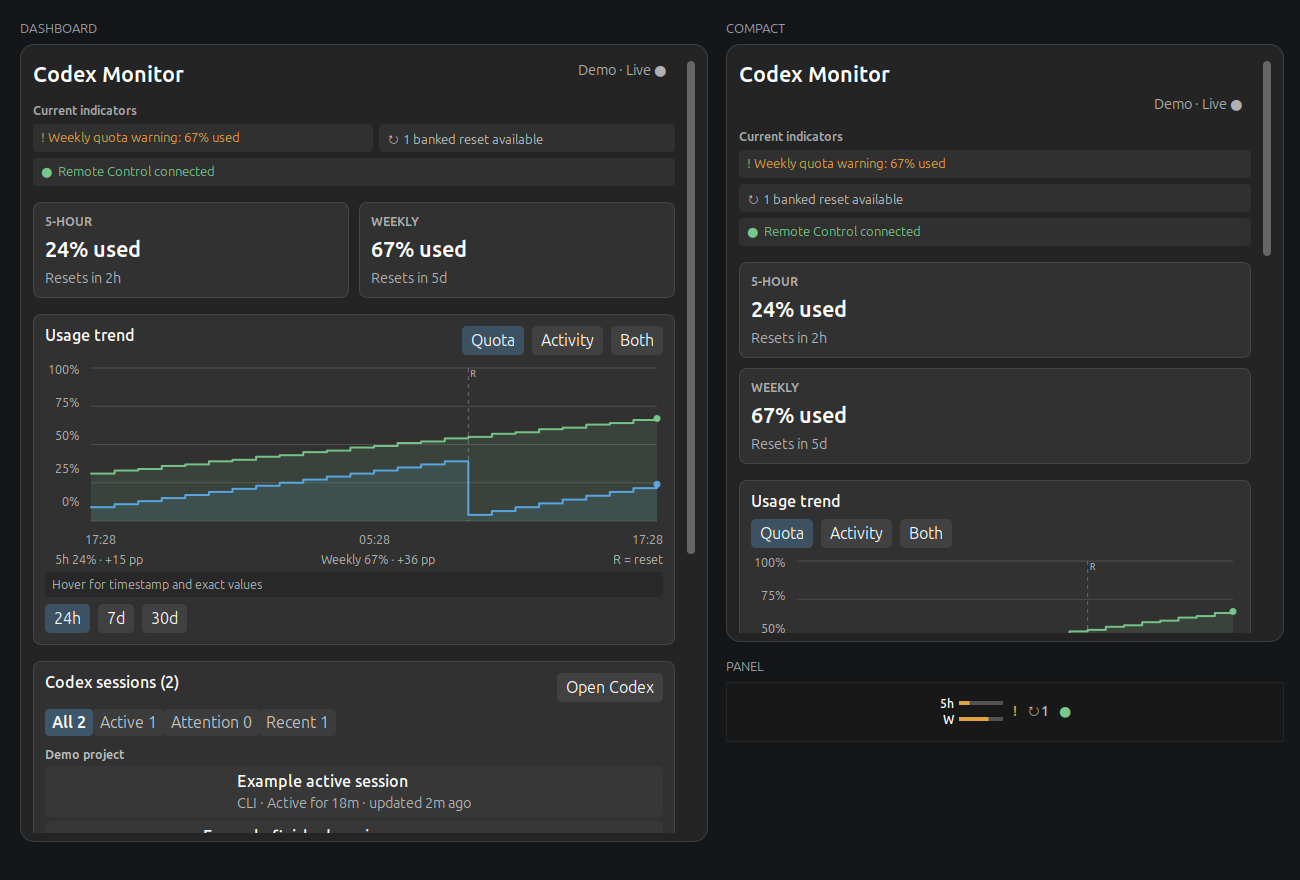
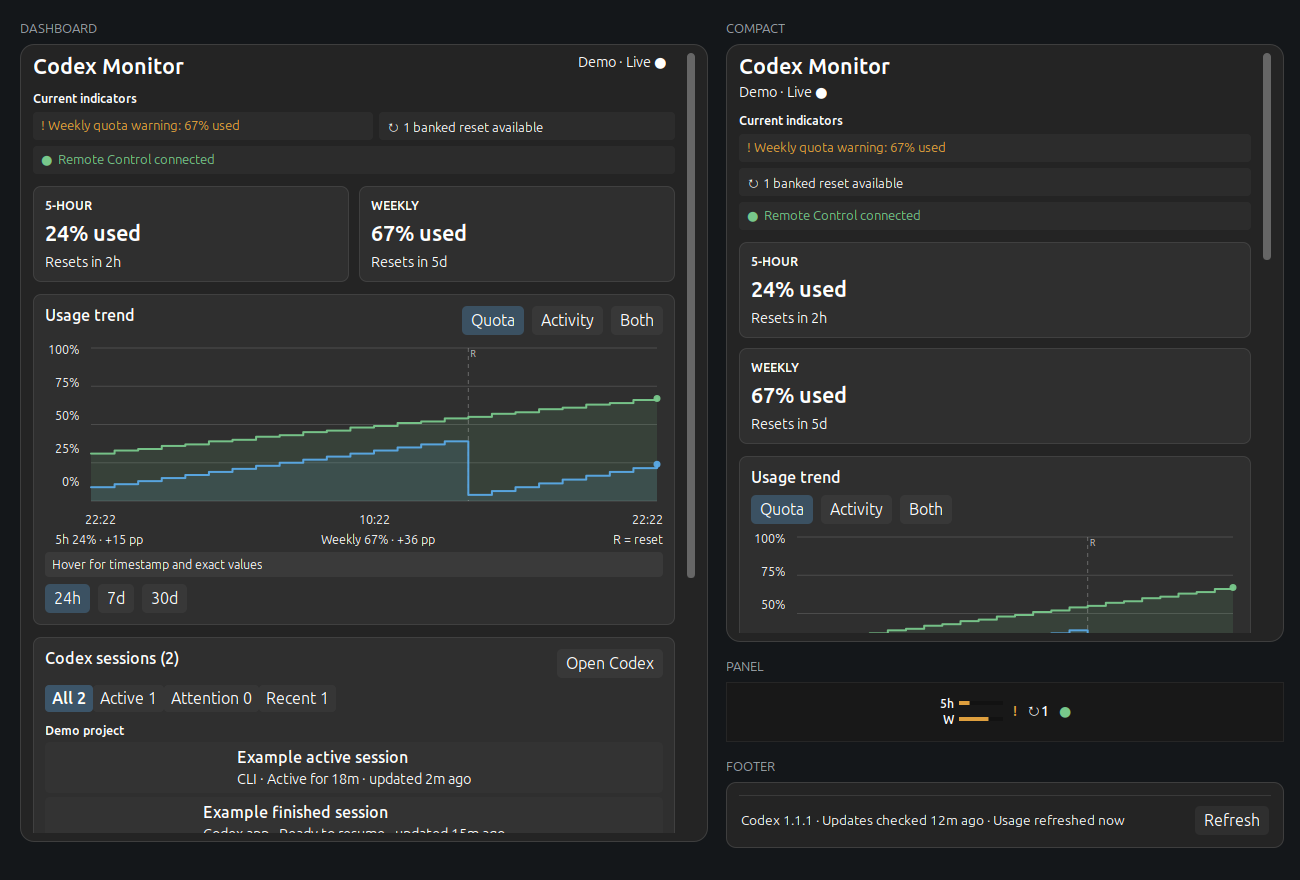
codex-monitor@breixopd: update audited 1.2.3 build

diff --git a/codex-monitor@breixopd/files/codex-monitor@breixopd/ui.js b/codex-monitor@breixopd/files/codex-monitor@breixopd/ui.js
@@ -133,6 +133,7 @@ var Dashboard = class Dashboard {
     this._sessionFilter = 'all';
     this._sessionFilterButtons = {};
     this._updateState = null;
+    this._footerUsageMessage = null;
     this._settings = {};
     this._compact = false;
     this._indicators = [];
@@ -416,32 +417,37 @@ var Dashboard = class Dashboard {
   }
 
   _buildFooter() {
-    this._versionRow = new St.BoxLayout({
-      style_class: 'codex-monitor-version-row',
-    });
-    this._versionLabel = new St.Label({
-      text: '',
-      style_class: 'codex-monitor-secondary',
+    this._footer = new St.BoxLayout({ style_class: 'codex-monitor-footer' });
+    this._footerSummary = new St.Label({
+      text: this._('No data yet'),
+      style_class: 'codex-monitor-footer-summary',
       x_expand: true,
+      y_align: Clutter.ActorAlign.CENTER,
     });
-    _enableWrapping(this._versionLabel);
+    _enableWrapping(this._footerSummary);
+    this._footerActions = new St.BoxLayout({
+      style_class: 'codex-monitor-footer-actions',
+      y_align: Clutter.ActorAlign.CENTER,
+    });
     this._updateButton = _button(this._('Update Codex…'), this._callbacks.onUpdate);
     this._updateButton.visible = false;
-    this._versionRow.add_child(this._versionLabel);
-    this._versionRow.add_child(this._updateButton);
-    this._versionRow.visible = false;
-    this.actor.add_child(this._versionRow);
-
-    this._footer = new St.BoxLayout({ style_class: 'codex-monitor-footer' });
-    this._updated = new St.Label({
-      text: this._('No data yet'),
-      style_class: 'codex-monitor-secondary',
-      x_expand: true,
-    });
-    _enableWrapping(this._updated);
-    this._footer.add_child(this._updated);
-    this._footer.add_child(_button(this._('Refresh'), this._callbacks.onRefresh));
+    this._refreshButton = _button(this._('Refresh'), this._callbacks.onRefresh);
+    this._footerActions.add_child(this._updateButton);
+    this._footerActions.add_child(this._refreshButton);
+    this._footer.add_child(this._footerSummary);
+    this._footer.add_child(this._footerActions);
     this.actor.add_child(this._footer);
+  }
+
+  _renderFooter() {
+    const now = Math.floor(Date.now() / 1000);
+    this._footerSummary.set_text(this._model.dashboardFooterText(
+      this._updateState,
+      this._snapshot && this._snapshot.capturedAt,
+      this._footerUsageMessage,
+      now,
+      this._
+    ));
   }
 
   _layoutSessionFilters() {
@@ -478,8 +484,14 @@ var Dashboard = class Dashboard {
     this._remoteHeading.set_vertical(this._compact);
     this._remoteClientsHeadingRow.set_vertical(this._compact);
     this._remoteButtons.set_vertical(this._compact);
-    this._versionRow.set_vertical(this._compact);
     this._footer.set_vertical(this._compact);
+    this._footerActions.set_vertical(false);
+    this._updateButton.x_expand = this._compact;
+    this._refreshButton.x_expand = this._compact;
+    this._updateButton.set_x_align(this._compact
+      ? Clutter.ActorAlign.FILL : Clutter.ActorAlign.CENTER);
+    this._refreshButton.set_x_align(this._compact
+      ? Clutter.ActorAlign.FILL : Clutter.ActorAlign.CENTER);
     this._layoutSessionFilters();
     this.setIndicators(this._indicators);
     if (this._snapshot)
@@ -490,37 +502,18 @@ var Dashboard = class Dashboard {
   setUpdateState(value) {
     const state = this._model.normalizeUpdateState(value);
     this._updateState = state;
-    this._versionRow.visible = Boolean(state.installedVersion || state.message);
     this._updateButton.visible = state.updateAvailable;
     this._updateButton.set_label(this._('Update Codex…'));
     if (state.status === 'checking') {
-      this._versionLabel.set_text(state.installedVersion
-        ? _format(this._('Codex %s · Checking for updates…'), state.installedVersion)
-        : this._('Checking for Codex updates…'));
       this._updateButton.visible = false;
     } else if (state.status === 'updating') {
-      this._versionLabel.set_text(this._('Updating Codex…'));
       this._updateButton.visible = false;
     } else if (state.status === 'updated') {
-      this._versionLabel.set_text(
-        _format(this._('Updated to Codex %s. New Codex launches use this version.'),
-          state.installedVersion)
-      );
       this._updateButton.visible = false;
     } else if (state.status === 'failed') {
-      this._versionLabel.set_text(state.installedVersion
-        ? _format(this._('Automatic update failed; Codex %s is still installed. Use the official Codex installation instructions to update manually.'),
-          state.installedVersion)
-        : this._('Automatic Codex update failed. Use the official Codex installation instructions to update manually.'));
       this._updateButton.set_label(this._('Retry'));
-    } else if (state.updateAvailable) {
-      this._versionLabel.set_text(
-        _format(this._('Codex %s → %s'), state.installedVersion, state.latestVersion)
-      );
-    } else {
-      this._versionLabel.set_text(state.installedVersion
-        ? _format(this._('Codex %s'), state.installedVersion) : '');
     }
+    this._renderFooter();
   }
 
   showUpdateError() {
@@ -566,8 +559,8 @@ var Dashboard = class Dashboard {
     const plan = snapshot.planType || snapshot.account && snapshot.account.planType || this._('Unknown plan');
     this._status.set_text(_format(this._('%s · Live ●'), plan));
     this.setIndicators(panelState && panelState.indicators);
-    this._updated.set_text(_format(this._('Updated %s ago'),
-      this._model.formatDuration(now - snapshot.capturedAt, this._)));
+    this._footerUsageMessage = null;
+    this._renderFooter();
     if (snapshotChanged) {
       this._fiveHourCard.update(snapshot.windows.fiveHour, this._model, now);
       this._weeklyCard.update(snapshot.windows.weekly, this._model, now);
@@ -580,7 +573,8 @@ var Dashboard = class Dashboard {
 
   showError(message) {
     this._status.set_text(this._('Stale · retrying'));
-    this._updated.set_text(message || this._('Unable to refresh Codex'));
+    this._footerUsageMessage = message || this._('Unable to refresh Codex');
+    this._renderFooter();
   }
 
   setRemoteStatus(status) {
@@ -647,7 +641,8 @@ var Dashboard = class Dashboard {
   }
 
   showActionMessage(message) {
-    this._updated.set_text(message);
+    this._footerUsageMessage = message;
+    this._renderFooter();
   }
 
   _renderGraph() {

diff --git a/codex-monitor@breixopd/files/codex-monitor@breixopd/model.js b/codex-monitor@breixopd/files/codex-monitor@breixopd/model.js
@@ -651,7 +651,7 @@ function normalizeUpdateState(value) {
   const installed = _semanticVersion(raw.installedVersion);
   const latest = _semanticVersion(raw.latestVersion);
   const statuses = new Set(['idle', 'checking', 'updating', 'updated', 'failed']);
-  const checkedAt = Number(raw.checkedAt);
+  const checkedAt = raw.checkedAt == null ? Number.NaN : Number(raw.checkedAt);
   return {
     installedVersion: installed ? installed.display : null,
     latestVersion: latest ? latest.display : null,
@@ -662,6 +662,61 @@ function normalizeUpdateState(value) {
     status: statuses.has(raw.status) ? raw.status : 'idle',
     message: null,
   };
+}
+
+function dashboardFooterText(updateState, capturedAt, usageMessage, now,
+  translate = text => text) {
+  const _ = translate;
+  const state = normalizeUpdateState(updateState);
+  const current = Number.isFinite(Number(now)) ? Math.floor(Number(now)) : 0;
+  let updateText = '';
+  if (state.status === 'checking') {
+    updateText = state.installedVersion
+      ? _format(_('Codex %s · Checking for updates…'), state.installedVersion)
+      : _('Checking for Codex updates…');
+  } else if (state.status === 'updating') {
+    updateText = _('Updating Codex…');
+  } else if (state.status === 'updated') {
+    updateText = _format(
+      _('Updated to Codex %s. New Codex launches use this version.'),
+      state.installedVersion
+    );
+  } else if (state.status === 'failed') {
+    updateText = state.installedVersion
+      ? _format(_('Automatic update failed; Codex %s is still installed. Use the official Codex installation instructions to update manually.'),
+        state.installedVersion)
+      : _('Automatic Codex update failed. Use the official Codex installation instructions to update manually.');
+  } else if (state.updateAvailable) {
+    updateText = _format(_('Codex %s → %s'),
+      state.installedVersion, state.latestVersion);
+  } else if (state.installedVersion && state.checkedAt != null) {
+    const elapsed = Math.max(0, current - state.checkedAt);
+    updateText = elapsed === 0
+      ? _format(_('Codex %s · Updates checked now'), state.installedVersion)
+      : _format(_('Codex %s · Updates checked %s ago'),
+        state.installedVersion, formatDuration(elapsed, translate));
+  } else if (state.installedVersion) {
+    updateText = _format(_('Codex %s'), state.installedVersion);
+  } else if (state.checkedAt != null) {
+    const elapsed = Math.max(0, current - state.checkedAt);
+    updateText = elapsed === 0
+      ? _('Updates checked now')
+      : _format(_('Updates checked %s ago'), formatDuration(elapsed, translate));
+  }
+
+  let usageText = '';
+  if (typeof usageMessage === 'string' && usageMessage.length > 0) {
+    usageText = usageMessage;
+  } else if (capturedAt != null && Number.isFinite(Number(capturedAt)) &&
+      Number(capturedAt) >= 0) {
+    const elapsed = Math.max(0, current - Number(capturedAt));
+    usageText = elapsed === 0
+      ? _('Usage refreshed now')
+      : _format(_('Usage refreshed %s ago'), formatDuration(elapsed, translate));
+  } else {
+    usageText = _('No data yet');
+  }
+  return [updateText, usageText].filter(Boolean).join(' · ');
 }
 
 const CodexModel = {
@@ -686,6 +741,7 @@ const CodexModel = {
   sessionStatusText,
   isUsableRemoteStatus,
   normalizeUpdateState,
+  dashboardFooterText,
 };
 
 if (typeof module !== 'undefined' && module.exports)

diff --git a/codex-monitor@breixopd/files/codex-monitor@breixopd/stylesheet.css b/codex-monitor@breixopd/files/codex-monitor@breixopd/stylesheet.css
@@ -70,19 +70,25 @@
 }
 
 .codex-monitor-dashboard {
-  spacing: 16px;
+  spacing: 12px;
 }
 
 .popup-menu-item.codex-monitor-menu-item {
+  padding-top: 0;
+  padding-bottom: 0;
   padding-left: 0;
   padding-right: 0;
   margin-left: 0;
   margin-right: 0;
 }
 
+.popup-menu-item.codex-monitor-menu-item:insensitive {
+  color: inherit;
+}
+
 .codex-monitor-scroll {
   max-height: 752px;
-  padding: 16px 0 8px;
+  padding: 8px 0;
 }
 
 .codex-monitor-scroll StScrollBar {
@@ -91,10 +97,28 @@
 
 .codex-monitor-header,
 .codex-monitor-section-heading,
-.codex-monitor-footer,
-.codex-monitor-version-row,
 .codex-monitor-action-row,
 .codex-monitor-range-row {
+  spacing: 8px;
+}
+
+.codex-monitor-footer {
+  spacing: 12px;
+  padding: 10px 2px 0;
+  border-top: 1px solid rgba(128, 128, 128, 0.24);
+}
+
+.codex-monitor-footer-summary {
+  color: inherit;
+  opacity: 184;
+  font-size: 0.86em;
+}
+
+.codex-monitor-footer-actions {
+  spacing: 8px;
+}
+
+.codex-monitor-compact .codex-monitor-footer {
   spacing: 8px;
 }
 
@@ -128,6 +152,15 @@
   width: 160px;
   margin-right: 8px;
   text-align: right;
+}
+
+.codex-monitor-compact .codex-monitor-header {
+  spacing: 4px;
+}
+
+.codex-monitor-compact .codex-monitor-header .codex-monitor-status {
+  margin-right: 0;
+  text-align: left;
 }
 
 .codex-monitor-card-row {

diff --git a/codex-monitor@breixopd/files/codex-monitor@breixopd/helper/codex_bridge/__init__.py b/codex-monitor@breixopd/files/codex-monitor@breixopd/helper/codex_bridge/__init__.py
@@ -1,3 +1,3 @@
 """Codex Monitor helper package."""
 
-__version__ = "1.2.2"
+__version__ = "1.2.3"